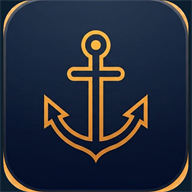
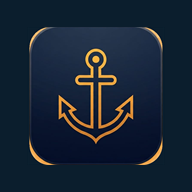
Agregar swipe entre pestanas, transiciones de click y margen de seguridad al icono

diff --git a/index.html b/index.html
@@ -24,7 +24,7 @@
   .screen{
     position:absolute; inset:0; display:flex; flex-direction:column;
     opacity:0; pointer-events:none; transition:opacity .25s ease;
-    overflow-y:auto;
+    overflow-y:auto; overscroll-behavior-x:none;
   }
   .screen.active{opacity:1; pointer-events:auto;}
 
@@ -48,7 +48,7 @@
   .btn-entrar{
     margin-top:44px; background:var(--amber); color:#1a1206; font-weight:700; font-size:14px;
     letter-spacing:0.04em; padding:14px 52px; border-radius:28px; border:none;
-    box-shadow:0 8px 24px rgba(232,163,61,0.25); cursor:pointer;
+    box-shadow:0 8px 24px rgba(232,163,61,0.25); cursor:pointer; transition:transform .12s ease;
   }
   .btn-entrar:active{transform:scale(0.97);}
   .home-footnote{position:absolute; bottom:28px; left:0; right:0; z-index:2; font-size:9px; color:var(--slate); letter-spacing:0.03em; text-align:center; line-height:1.6;}
@@ -94,7 +94,8 @@
 
   /* ============ DETAIL ============ */
   #screen-detail{padding:14px 16px 24px;}
-  .back{font-size:13px; color:var(--slate); cursor:pointer; padding:6px 0; width:fit-content;}
+  .back{font-size:13px; color:var(--slate); cursor:pointer; padding:6px 0; width:fit-content; transition:opacity .12s ease, transform .12s ease;}
+  .back:active{opacity:.5; transform:translateX(-2px);}
   .dhero{padding:14px 2px 16px; border-bottom:1px solid var(--line); margin-bottom:6px;}
   .dvessel{font-weight:700; font-size:20px;}
   .dbadge{display:inline-block; margin-top:8px; font-size:10px; color:var(--green); border:1px solid rgba(95,191,138,0.4); border-radius:12px; padding:3px 10px;}
@@ -128,8 +129,10 @@
   .tab{
     flex:1; display:flex; flex-direction:column; align-items:center; gap:4px;
     padding:10px 0 12px; font-size:9px; letter-spacing:0.03em; color:var(--slate); cursor:pointer;
+    transition:transform .12s ease, opacity .12s ease;
   }
   .tab.active{color:var(--amber);}
+  .tab:active{transform:scale(0.9); opacity:.7;}
   .tab svg{width:20px; height:20px;}
   #screen-home ~ .tabbar, .screen.active#screen-home ~ .tabbar { display:none; }
   .content-scroll{flex:1; overflow-y:auto; padding:16px 14px 76px;}
@@ -204,7 +207,9 @@
     width:28px; height:28px; border-radius:50%; flex-shrink:0;
     background:rgba(232,236,239,0.08); display:flex; align-items:center;
     justify-content:center; font-size:13px; color:var(--slate); cursor:pointer;
+    transition:transform .12s ease;
   }
+  .help-close:active{transform:scale(0.88);}
   .help-sec{margin-bottom:18px;}
   .help-sec:last-child{margin-bottom:0;}
   .help-sec-title{font-size:10.5px; letter-spacing:0.07em; text-transform:uppercase; color:var(--steel); margin-bottom:9px; font-weight:700;}
@@ -376,6 +381,9 @@ const SHEET_ID = '1XqLYWcuALu0owR8yHsRWOrNctr1C_9_Zd5Qkzz6vPWc';
 let VESSELS = [];
 let TURNOS = [];
 
+const TAB_ORDER = ['list', 'clima', 'marejadas'];
+let currentTab = null;
+
 function goTo(screen){
   document.querySelectorAll('.screen').forEach(s => s.classList.remove('active'));
   document.getElementById('screen-' + screen).classList.add('active');
@@ -394,13 +402,84 @@ function cerrarAyuda(){
   document.getElementById('help-overlay').classList.remove('open');
 }
 
+function deslizarPantalla(desdeId, haciaId, direction){
+  const from = document.getElementById('screen-' + desdeId);
+  const to = document.getElementById('screen-' + haciaId);
+
+  to.style.transition = 'none';
+  to.classList.add('active');
+  to.style.transform = `translateX(${direction * 100}%)`;
+
+  let limpiado = false;
+  const limpiar = () => {
+    if (limpiado) return;
+    limpiado = true;
+    from.classList.remove('active');
+    from.style.transition = '';
+    from.style.transform = '';
+    to.style.transition = '';
+    to.style.transform = '';
+    to.removeEventListener('transitionend', limpiar);
+  };
+
+  setTimeout(() => {
+    from.style.transition = 'transform .28s ease';
+    to.style.transition = 'transform .28s ease';
+    from.style.transform = `translateX(${-direction * 100}%)`;
+    to.style.transform = 'translateX(0)';
+    to.addEventListener('transitionend', limpiar);
+    setTimeout(limpiar, 400); // respaldo por si transitionend no dispara
+  }, 20);
+
+  document.getElementById('tabbar').style.display = 'flex';
+  document.getElementById('help-btn').style.display = 'flex';
+}
+
 function irAPantalla(pantalla){
-  goTo(pantalla);
+  const idxNueva = TAB_ORDER.indexOf(pantalla);
+  const idxActual = TAB_ORDER.indexOf(currentTab);
+
+  if (idxNueva !== -1 && idxActual !== -1 && idxNueva !== idxActual){
+    deslizarPantalla(currentTab, pantalla, idxNueva > idxActual ? 1 : -1);
+  } else {
+    goTo(pantalla);
+  }
+  if (idxNueva !== -1) currentTab = pantalla;
+
   document.querySelectorAll('.tab').forEach(t => t.classList.remove('active'));
   const map = {list: 'tab-buques', clima: 'tab-clima', marejadas: 'tab-marejadas'};
   const tabEl = document.getElementById(map[pantalla]);
   if (tabEl) tabEl.classList.add('active');
 }
+
+let touchStartX = null, touchStartY = null;
+const SWIPE_THRESHOLD = 50;
+
+function manejarTouchStart(e){
+  const t = e.touches[0];
+  touchStartX = t.clientX;
+  touchStartY = t.clientY;
+}
+
+function manejarTouchEnd(e){
+  if (touchStartX === null) return;
+  const t = e.changedTouches[0];
+  const dx = t.clientX - touchStartX;
+  const dy = t.clientY - touchStartY;
+  touchStartX = null;
+  if (Math.abs(dx) < SWIPE_THRESHOLD || Math.abs(dx) < Math.abs(dy) * 1.5) return;
+
+  const idxActual = TAB_ORDER.indexOf(currentTab);
+  if (idxActual === -1) return;
+  if (dx < 0 && idxActual < TAB_ORDER.length - 1){
+    irAPantalla(TAB_ORDER[idxActual + 1]);
+  } else if (dx > 0 && idxActual > 0){
+    irAPantalla(TAB_ORDER[idxActual - 1]);
+  }
+}
+
+document.getElementById('app').addEventListener('touchstart', manejarTouchStart, {passive: true});
+document.getElementById('app').addEventListener('touchend', manejarTouchEnd, {passive: true});
 
 function parsearViento(viento){
   const m = (viento || '').match(/([A-Z\/]{1,6})\s+(\d+)\/(\d+)\s*KT/i);